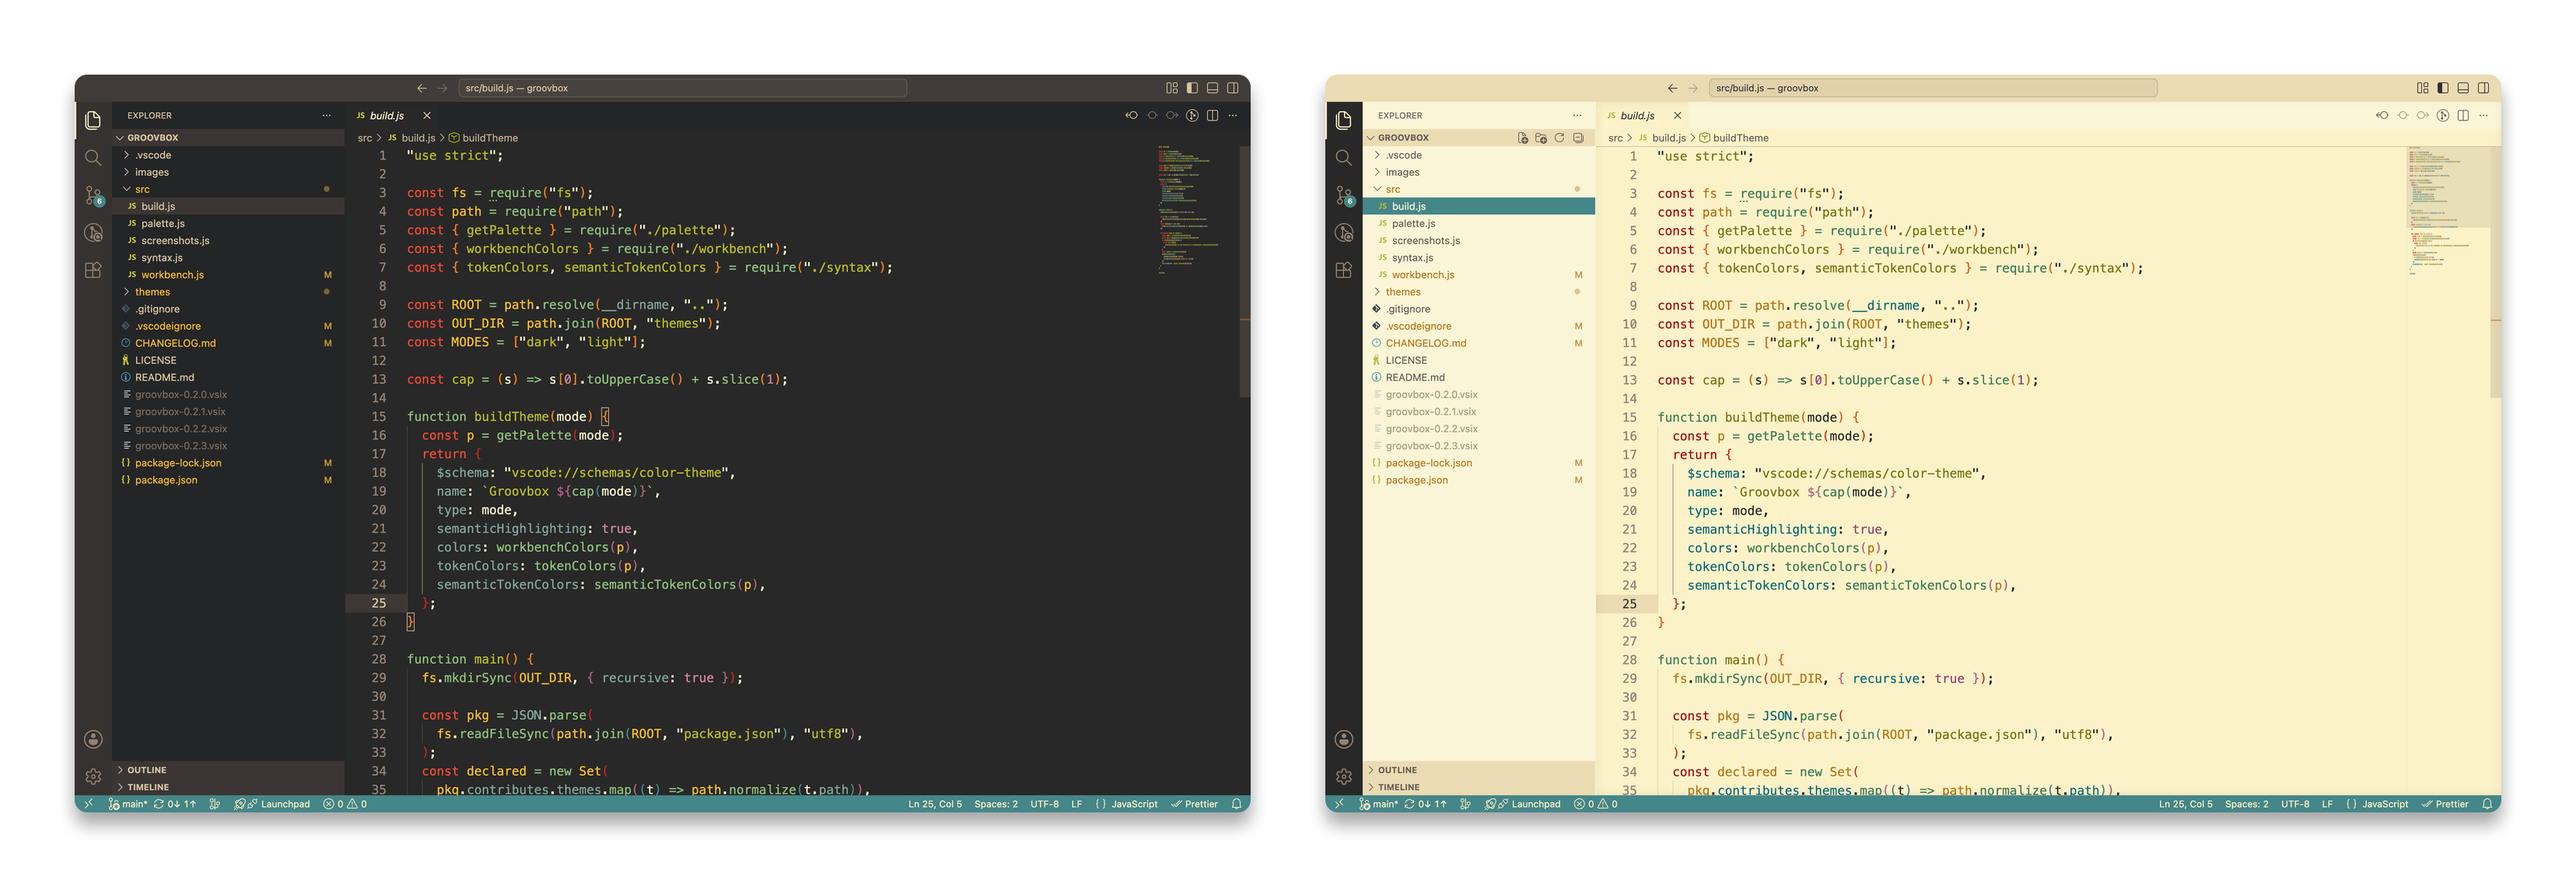
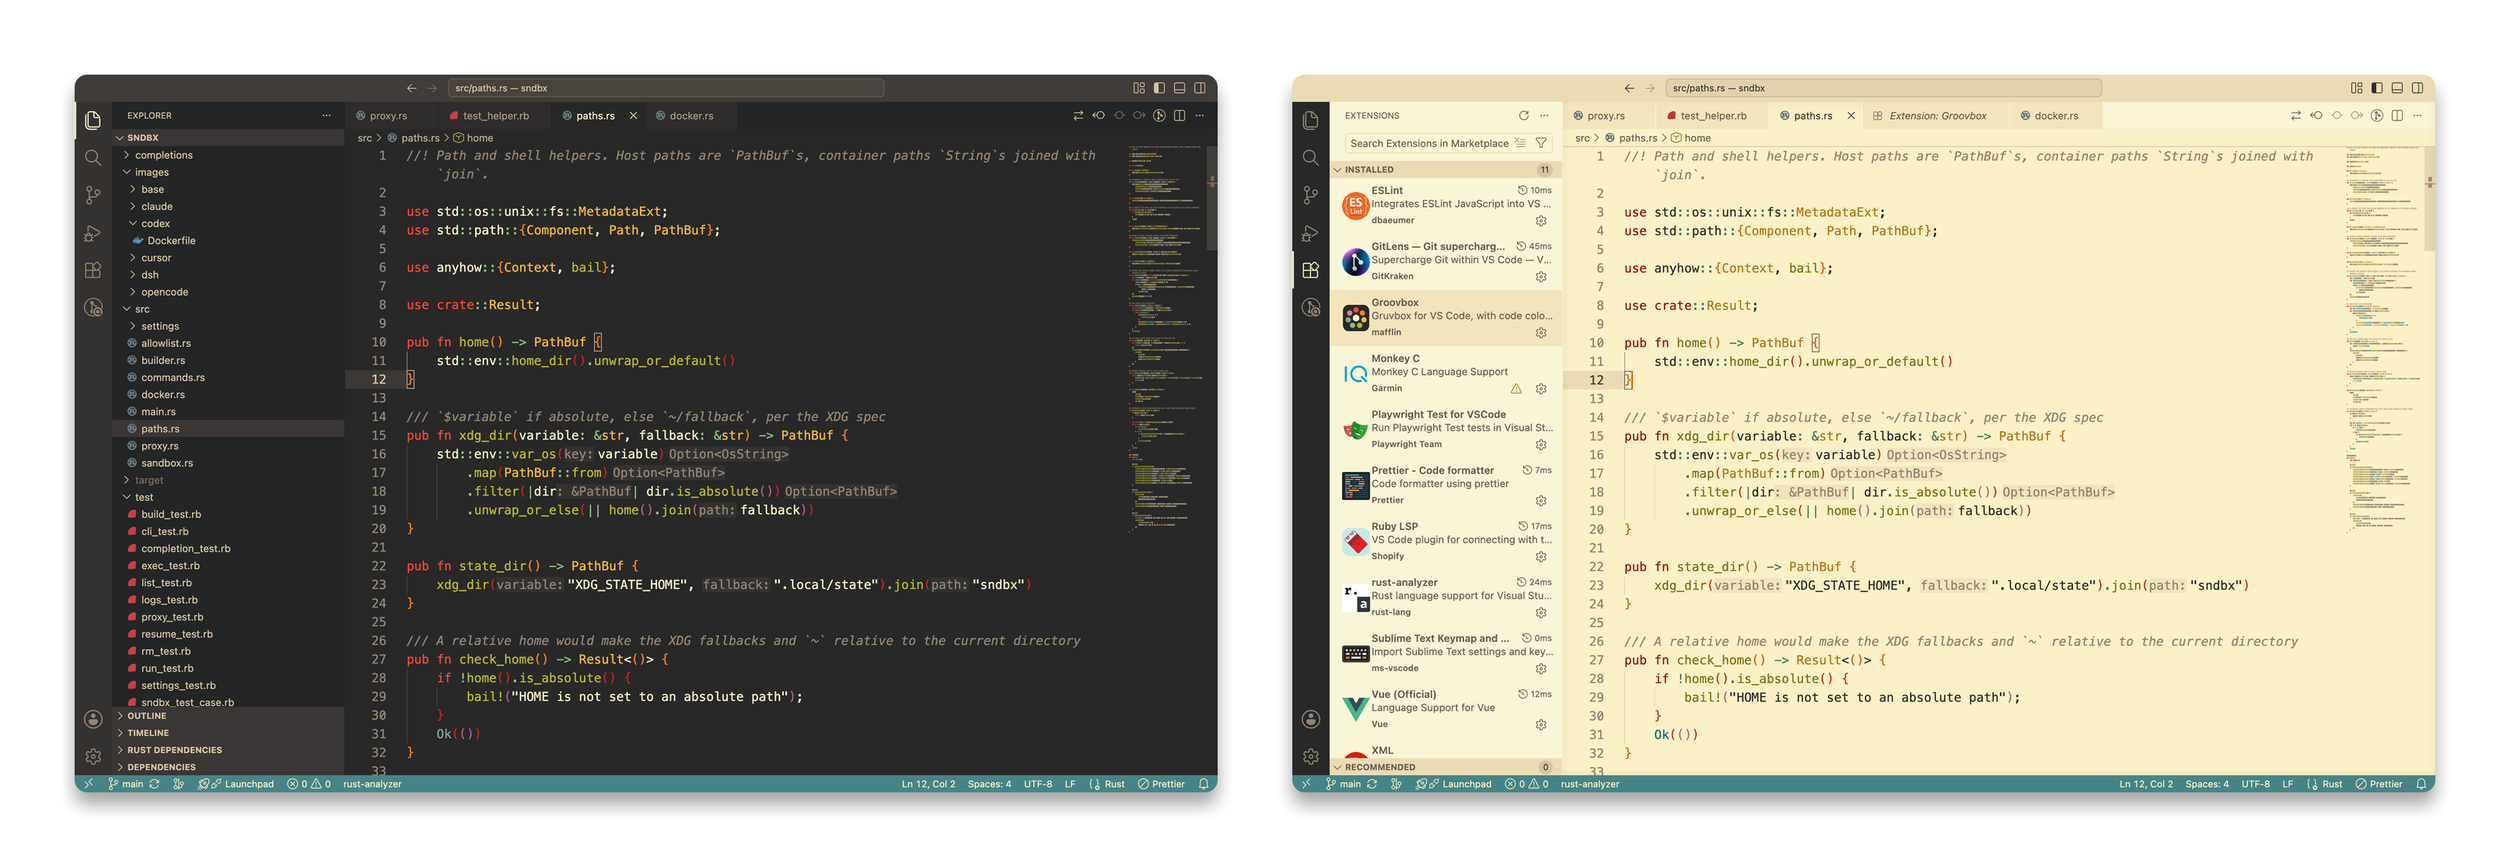
Release 0.2.4: green function calls, plain strings with aqua quotes

diff --git a/src/syntax.js b/src/syntax.js
@@ -228,7 +228,7 @@ function tokenColors(p) {
       p.text,
     ),
     rule("Parameters", ["meta.parameters", "variable.parameter"], p.text),
-    rule("SASS Import URL", ["variable.parameter.url"], p.green),
+    rule("SASS Import URL", ["variable.parameter.url"], p.string),
     rule(
       "Language Constants",
       [
@@ -275,11 +275,25 @@ function tokenColors(p) {
       ],
       p.red,
     ),
-    rule("Strings", ["meta.object-literal.key string", "string"], p.green),
+    rule("Strings", ["meta.object-literal.key string", "string"], p.string),
+    rule(
+      "String Quotes",
+      [
+        "punctuation.definition.char",
+        "punctuation.definition.string",
+        // Python f-strings nest the string scope inside the quote's.
+        "punctuation.definition.string string",
+        // Ruby %w(…) / %i(…) and heredoc delimiters.
+        "string.definition.begin",
+        "string.definition.end",
+        "string.quoted.other punctuation.section.array",
+      ],
+      p.aqua,
+    ),
     rule(
       "Regular Expressions Text",
       ["source.regexp", "string.regexp"],
-      p.green,
+      p.string,
     ),
     rule(
       "Regular Expressions Start & End Punctuation",
@@ -403,13 +417,13 @@ function tokenColors(p) {
         "entity.name.function.jade",
         "entity.name.function.pug",
         "keyword.other.special-method",
-        // Ruby, TS and others tag call names like declarations; keep them aqua.
+        // Ruby, TS and others tag call names like declarations.
         "meta.function-call entity.name.function",
         "meta.function-call variable.function",
         "meta.function-call variable.other.dollar.only punctuation.dollar",
         "support.function",
       ],
-      p.aqua,
+      p.func,
     ),
     rule(
       "Method Calls",
@@ -422,17 +436,13 @@ function tokenColors(p) {
         "meta.method-call variable.function",
         "support.function.mutator",
       ],
-      p.aqua,
+      p.func,
     ),
     rule("Special Variables", ["support.module"], p.purple),
+    rule("Function Declarations", ["entity.name.function"], p.func),
     rule(
       "Entities",
-      [
-        "entity.name.accessor",
-        "entity.name.function",
-        "entity.name.label",
-        "entity.name.section",
-      ],
+      ["entity.name.accessor", "entity.name.label", "entity.name.section"],
       p.green,
     ),
     rule("Modules", ["entity.name.module"], p.orange),
@@ -620,17 +630,14 @@ function tokenColors(p) {
   ];
 }
 
-// The .tmTheme format can't enable semantic highlighting. These rules keep the
-// Sublime look when a language server provides semantic tokens: function and
-// method calls aqua, declarations green. (Sublime uses neutral aqua for method
-// calls on dark; it reads too dark.) Everything else falls back to the
-// TextMate rules above via VS Code's standard semantic → scope mapping.
+// The .tmTheme format can't enable semantic highlighting. These rules keep
+// functions and methods in the function color, calls and declarations alike,
+// when a language server provides semantic tokens. Everything else falls back to the TextMate
+// rules above via VS Code's standard semantic → scope mapping.
 function semanticTokenColors(p) {
   return {
-    function: p.aqua,
-    "function.declaration": p.green,
-    method: p.aqua,
-    "method.declaration": p.green,
+    function: p.func,
+    method: p.func,
   };
 }
 

diff --git a/src/workbench.js b/src/workbench.js
@@ -537,7 +537,7 @@ function workbenchColors(p) {
     "debugIcon.stepBackForeground": p.blue,
     "debugTokenExpression.name": p.blue,
     "debugTokenExpression.value": p.fg2,
-    "debugTokenExpression.string": p.green,
+    "debugTokenExpression.string": p.string,
     "debugTokenExpression.boolean": p.purple,
     "debugTokenExpression.number": p.purple,
     "debugTokenExpression.error": p.red,
@@ -575,7 +575,7 @@ function workbenchColors(p) {
     "symbolIcon.propertyForeground": p.blue,
     "symbolIcon.referenceForeground": p.blue,
     "symbolIcon.snippetForeground": p.fg2,
-    "symbolIcon.stringForeground": p.green,
+    "symbolIcon.stringForeground": p.string,
     "symbolIcon.structForeground": p.yellow,
     "symbolIcon.textForeground": p.fg2,
     "symbolIcon.typeParameterForeground": p.yellow,

diff --git a/src/palette.js b/src/palette.js
@@ -89,6 +89,12 @@ function getPalette(mode) {
   // Main code text color, as in Brian Reilly's Sublime port.
   p.text = p.fg0;
 
+  // Function and method names, calls and declarations alike.
+  p.func = p.green;
+
+  // Strings: the main text color, so green is left to functions.
+  p.string = p.text;
+
   // Neutral accents are shared by both backgrounds (terminal, rainbow brackets).
   p.neutral = {};
   for (const c of ACCENTS) p.neutral[c] = gb[`neutral_${c}`];

diff --git a/CHANGELOG.md b/CHANGELOG.md
@@ -1,5 +1,14 @@
 # Changelog
 
+## 0.2.4
+
+- Function and method calls are green instead of aqua, the same as
+  declarations (dark `#b8bb26`, light `#79740e`). Calls look the same in every
+  language, with or without a language server.
+- Strings use the main text color (dark `#fbf1c7`, light `#282828`) instead of
+  green, so green is left to functions. Their quotes are aqua (dark
+  `#8ec07c`, light `#427b58`), like the `${…}` and `#{…}` around interpolation.
+
 ## 0.2.3
 
 - Dark: first-level rainbow brackets are bright orange (`#fe8019`) instead of
